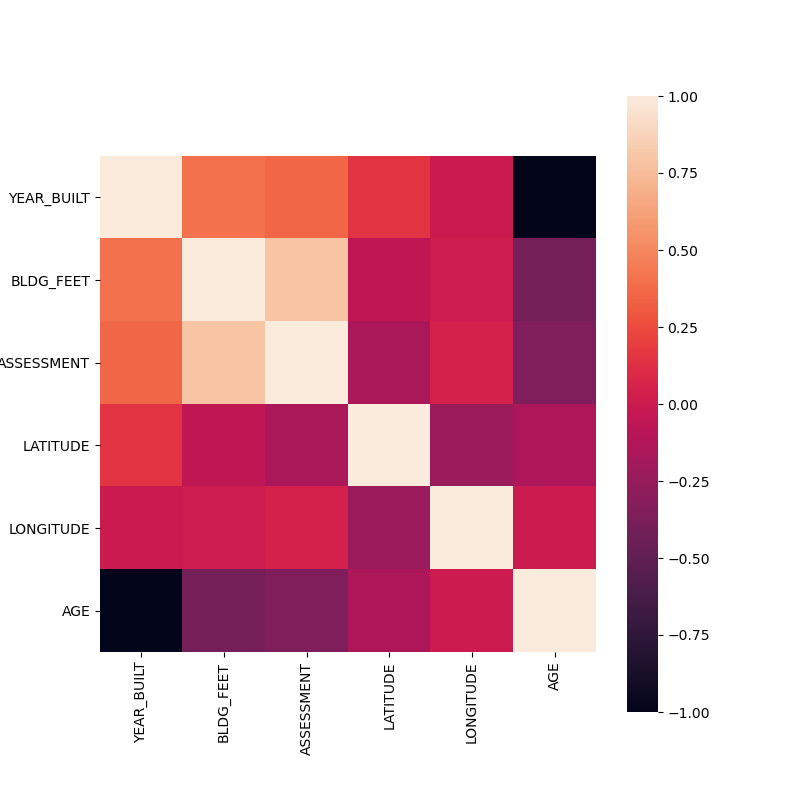
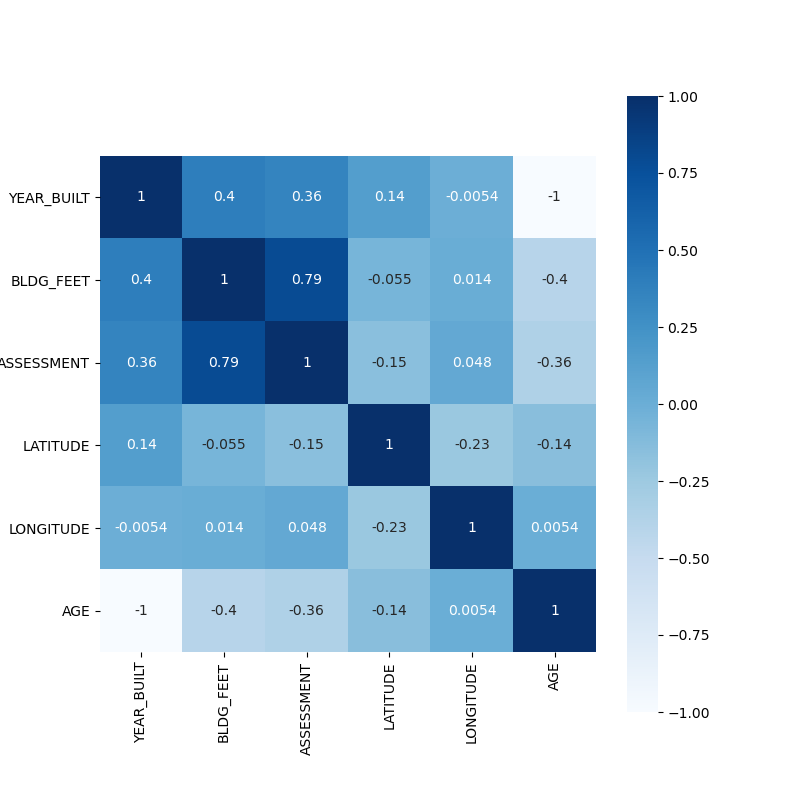
Correlation Map Improved

diff --git a/src/eda_script.py b/src/eda_script.py
@@ -42,7 +42,7 @@ def main(in_file1, in_file2, output_file):
     # Correlation map
     corrmat = df.corr(method='pearson')
     f, ax = plt.subplots(figsize=(8, 8))
-    cormap = sns.heatmap(corrmat, vmax=1., square=True)
+    cormap = sns.heatmap(corrmat, vmax=1., square=True, annot=True, cmap=plt.cm.Blues)
     correlation_map = cormap.get_figure()
     # plt.title("Correlation map", fontsize=16)
     correlation_map.savefig(output_file + 'corrmat.png')
